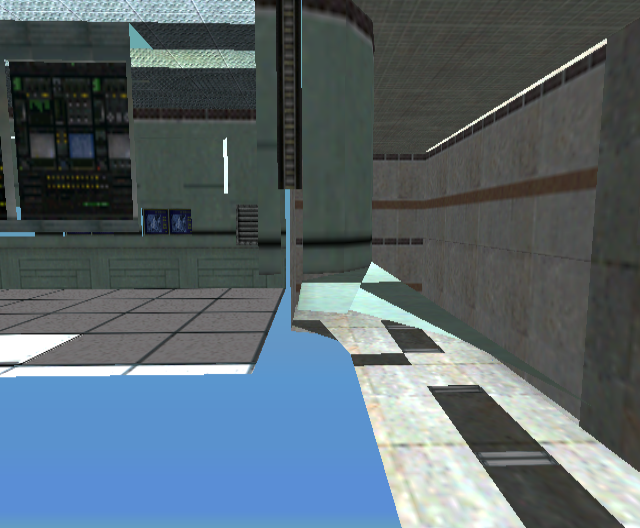
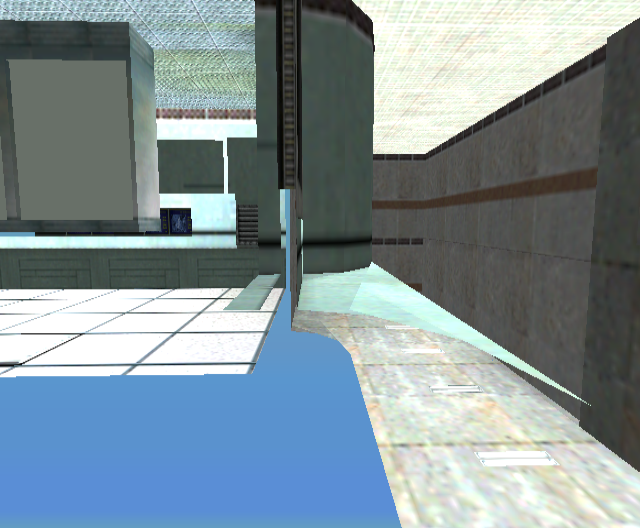
feat: update DumpFrames screenshots and enhance CapFaces management for G363
Added new binary screenshot files for G363 DumpFrames, improving visual documentation for denser changelevel scenarios. Enhanced CapFaces management to reduce floor/void seams and optimize live emit handling. Updated related documentation to reflect these changes, ensuring comprehensive tracking of visual fidelity improvements. This update aims to support ongoing enhancements in gameplay continuity and visual quality.

diff --git a/engine/platform/gamecube/vid_gamecube.c b/engine/platform/gamecube/vid_gamecube.c
@@ -1705,7 +1705,14 @@ static int GC_LiveViewScore( const gc_live_cand_t *c )
 	if( is_wall )
 		score += ( c->area >> 1 );
 	else if( fabs( c->plane.normal[2] ) > 0.7f )
-		score += ( c->area >> 2 ); /* floors still get a little */
+	{
+		/* G363: denser changelevel floors were ranked into live[192..] dead
+		 * zone (void seams). Match wall half-boost under live/cap overlap. */
+		if( GC_WantLiveCapOverlap() )
+			score += ( c->area >> 1 );
+		else
+			score += ( c->area >> 2 ); /* floors still get a little */
+	}
 	/* Prefer real EDGE/TEX geometry over eye-centered plane quads. */
 	if( c->bake_src == GC_CAP_BAKE_EDGE )
 		score += 80000;
@@ -3138,10 +3145,16 @@ static void GC_CaptureLiveFacesFromSurfbits( model_t *wmodel, const byte *surfbi
 		if( area <= 0 )
 			continue;
 		/* G361: denser changelevel dests may steal near-eye LM-caps into lean
-		 * live (EDGE/TEX); CapFaces skips those caps on emit. */
-		if( !GC_WantLiveCapOverlap()
-			&& GC_CapFaceAlready( src->firstedge, src->numedges ))
-			continue; /* complementary to LM-cap (PVS leftovers) */
+		 * live (EDGE/TEX); CapFaces skips those caps on emit.
+		 * G363: do not steal floors/ceilings — they ranked into live[192..] and
+		 * became void seams; walls keep the EDGE/TEX steal. */
+		if( GC_CapFaceAlready( src->firstedge, src->numedges ))
+		{
+			if( !GC_WantLiveCapOverlap() )
+				continue; /* complementary to LM-cap (PVS leftovers) */
+			if( src->plane && fabs( src->plane->normal[2] ) > 0.55f )
+				continue; /* denser floors/ceilings stay LM-cap owned */
+		}
 		if( GC_LiveFaceAlready( src->firstedge, src->numedges ))
 			continue;
 		is_wall = ( fabs( src->plane->normal[2] ) < 0.55f ); /* G234: match LiveViewScore */
@@ -4507,6 +4520,7 @@ static void GC_MaybeRestreamRideMapFaces( const float *eye )
 	static int nlog;
 	float dx, dy, dz;
 	int cluster, slot, i;
+	int portal_neigh = -1;
 	model_t *wm;
 	const byte *bits;
 	vec3_t ahead;
@@ -4532,10 +4546,13 @@ static void GC_MaybeRestreamRideMapFaces( const float *eye )
 	if( !wm )
 		return;
 
-	/* Walk look-ahead along −X until cluster changes (c0a0 cl 117 is large). */
+	/* Walk look-ahead until cluster changes.
+	 * Tram: −X (c0a0 cl 117 is large). G364 denser dest: dump forward —
+	 * G281 −X ranked the wrong room and left a vis-portal seam. */
 	VectorCopy( eye, ahead );
 	cluster = GC_SelectClusterForOrigin( eye );
 	{
+		const qboolean denser_portal = GC_WantLiveCapOverlap();
 		const float looks[4] = { 384.0f, 768.0f, 1152.0f, 1536.0f };
 		int base = cluster;
 
@@ -4543,12 +4560,26 @@ static void GC_MaybeRestreamRideMapFaces( const float *eye )
 		{
 			int c;
 
-			ahead[0] = eye[0] - looks[i];
-			ahead[1] = eye[1];
-			ahead[2] = eye[2];
+			if( denser_portal && !VectorIsNull( gc_newgame_capture_forward ))
+			{
+				const float *f = gc_newgame_capture_forward;
+				const float d = looks[i] * 0.5f; /* 192/384/576/768 — room scale */
+
+				ahead[0] = eye[0] + f[0] * d;
+				ahead[1] = eye[1] + f[1] * d;
+				ahead[2] = eye[2] + f[2] * d;
+			}
+			else
+			{
+				ahead[0] = eye[0] - looks[i];
+				ahead[1] = eye[1];
+				ahead[2] = eye[2];
+			}
 			c = GC_SelectClusterForOrigin( ahead );
 			if( c >= 0 && ( base < 0 || c != base ))
 			{
+				if( denser_portal )
+					portal_neigh = c;
 				cluster = c;
 				break;
 			}
@@ -4602,11 +4633,43 @@ static void GC_MaybeRestreamRideMapFaces( const float *eye )
 	if( slot < 0 )
 		return;
 
-	/* Rank faces toward look-ahead (tunnel reading), not cabin origin. */
-	VectorCopy( ahead, gc_newgame_capture_origin );
-	gc_newgame_capture_forward[0] = -1.0f;
-	gc_newgame_capture_forward[1] = 0.0f;
-	gc_newgame_capture_forward[2] = 0.0f;
+	/* G364: denser vis-portal — OR neighbor-cluster surfbits into the active
+	 * row so CapFaces cover both sides of a lab|hallway seam. */
+	if( portal_neigh >= 0 && portal_neigh != cluster
+		&& gc_newgame_surf_cache && gc_newgame_surfbytes > 0
+		&& gc_newgame_surfbytes <= 1024 && gc_newgame_visbytes > 0
+		&& gc_newgame_visbytes <= 512 )
+	{
+		byte vis[512], tbuf[1024];
+		int li, b;
+		byte *row = gc_newgame_surf_cache
+			+ (size_t)slot * (size_t)gc_newgame_surfbytes;
+
+		for( li = 1; li < wm->numleafs; li++ )
+		{
+			if( wm->leafs[li].cluster != portal_neigh || !wm->leafs[li].compressed_vis )
+				continue;
+			GC_DecompressPVS( vis, wm->leafs[li].compressed_vis,
+				(size_t)gc_newgame_visbytes );
+			GC_BuildSurfbitsForVisRow( wm, vis, tbuf );
+			for( b = 0; b < gc_newgame_surfbytes; b++ )
+				row[b] |= tbuf[b];
+			GC_BuildRefreshCandsFromSurfbits( wm, row, slot );
+			break;
+		}
+	}
+
+	/* Rank faces toward look-ahead (tunnel reading), not cabin origin.
+	 * G364 denser: keep dump-eye origin/forward — tram −X smashed wall-aim. */
+	if( GC_WantLiveCapOverlap() )
+		VectorCopy( eye, gc_newgame_capture_origin );
+	else
+	{
+		VectorCopy( ahead, gc_newgame_capture_origin );
+		gc_newgame_capture_forward[0] = -1.0f;
+		gc_newgame_capture_forward[1] = 0.0f;
+		gc_newgame_capture_forward[2] = 0.0f;
+	}
 	if( cluster != gc_newgame_viewcluster
 		&& GC_LookupSurfbitsCacheSlot( cluster ) >= 0 )
 		(void)GC_SetActiveNewGameCluster( cluster, false );
@@ -4615,15 +4678,16 @@ static void GC_MaybeRestreamRideMapFaces( const float *eye )
 	 * Host_Frame under MEM1 during present. */
 	gc_refresh_loaded_slot = -1;
 	GC_RefreshCapFacesFromCands( slot );
-	bits = GC_LookupSurfbitsCache( gc_newgame_viewcluster );
-	if( !bits )
-		bits = GC_LookupSurfbitsCache( cluster );
+	bits = gc_newgame_surf_cache
+		+ (size_t)slot * (size_t)gc_newgame_surfbytes;
 	if( bits )
 	{
 		/* G283: MarkLeaves stamps ride-cluster surfbits onto live msurface_t. */
 		gc_newgame_surfbits = bits;
-		/* Lean only when surfaces are unpinned (dangling scratch without retain). */
-		if( !Mod_GCWorldSurfacesPinned( wm ))
+		/* Lean only when surfaces are unpinned (dangling scratch without retain).
+		 * G364: denser scratch-retain still appends portal-OR leftovers. */
+		if( !Mod_GCWorldSurfacesPinned( wm )
+			|| ( GC_WantLiveCapOverlap() && Mod_GCWorldSurfacesScratchRetained( wm )))
 			GC_CaptureLiveFacesFromSurfbits( wm, bits, true );
 	}
 
@@ -4640,6 +4704,9 @@ static void GC_MaybeRestreamRideMapFaces( const float *eye )
 			Mod_GCWorldSurfacesScratchRetained( wm ) ? " pin" :
 			( Mod_GCWorldSurfacesPinned( wm ) ? " mpin" : "" ),
 			forced ? " force" : "" );
+		if( portal_neigh >= 0 )
+			Con_Reportf( "Xash3D GameCube: G364 denser portal OR cl=%d neigh=%d n=%d L=%d\n",
+				cluster, portal_neigh, gc_newgame_cap_face_count, gc_live_face_count );
 		nlog++;
 		/* Arm DumpFrames EFB hold after restream so late ride frames encode. */
 		if( nlog == 2 || nlog == 5 )
@@ -10339,7 +10406,8 @@ qboolean GC_RenderNewGameWorldPassNoFrame( qboolean draw_viewmodel )
 	/* G279: locked tram stream follows the parented ride eye (not the fixed
 	 * trainstop dump pose). G233 pinned DumpEyeAtTramStart and left the
 	 * camera stranded as *12 rolled away — exterior tram-in-tunnel shots. */
-	if( gc_g212_stream_locked && Sys_CheckParm( "-gcnewgame" ))
+	if( gc_g212_stream_locked && Sys_CheckParm( "-gcnewgame" )
+		&& !GC_WantLiveCapOverlap() )
 	{
 		(void)GC_NewGameRideEye( center, rvp.viewangles );
 		GC_MaybeRestreamRideMapFaces( center );
@@ -10454,8 +10522,10 @@ qboolean GC_RenderNewGameWorldFrames( int count )
 			}
 		}
 	}
-	/* G279: follow parented ride eye under stream lock (was fixed DumpEye). */
-	if( gc_g212_stream_locked && Sys_CheckParm( "-gcnewgame" ))
+	/* G279: follow parented ride eye under stream lock (was fixed DumpEye).
+	 * G364: denser dest skips tram −X restream; dump wall-aim restreams after. */
+	if( gc_g212_stream_locked && Sys_CheckParm( "-gcnewgame" )
+		&& !GC_WantLiveCapOverlap() )
 	{
 		(void)GC_NewGameRideEye( center, rvp.viewangles );
 		GC_MaybeRestreamRideMapFaces( center );
@@ -10558,6 +10628,13 @@ qboolean GC_RenderNewGameWorldFrames( int count )
 				GC_FlushPendingCapFaceRefresh();
 				GC_MergeRefreshCandsIntoLiveFaces();
 				gc_g212_stream_locked = true;
+			}
+			/* G364: restream LM-cap/live toward dump eye + portal neighbor.
+			 * Early G281 −X restream is skipped on denser dests. */
+			if( GC_WantLiveCapOverlap() )
+			{
+				GC_ForceLeanRideRestream();
+				GC_MaybeRestreamRideMapFaces( center );
 			}
 		}
 		else

diff --git a/.ai/tasks/gc-port-current.md b/.ai/tasks/gc-port-current.md
@@ -8,52 +8,28 @@ Match retail visuals without cutting fill/spawn.
 **DONE (2026-08-10/11)**:
 - Campaign `CHANGELEVEL_READY` through Nihilanth (`c4a3→c5a1`)
 - **G341–G355**: tram/AM vis + denser `c1a0d` tip-safe hop
-- **G356**: campaign dual-hop harness `c0a0e→c1a0→c1a0d`
-  - Disc `changelevel2` / `-gcchangelevel2` argv
-  - Deferred hop2 until after `MAP_READY` (nested G95 Prepare hung)
-  - Probe: G68 `c0a0e→c1a0` then `c1a0→c1a0d`; CHANGELEVEL_READY
-  - Evidence: `.ai/logs/dolphin-probe-g356-dual-c1a0d`
-- **G357**: dual-hop CapFaces on final denser dest
-  - Block denser G335 reverse-hop when already on probe changelevel dest
-    (`GC_IsProbeChangelevelDest` → mark `gc_g335_cl_queued`)
-  - Bounded Flipper CapFaces sample after G335 on denser dests
-  - Probe: CHANGELEVEL_READY; no `c1a0d→c1a0` reverse; `G357 CapFaces sample ok
-    map=c1a0d live=75`
-  - Evidence: `.ai/logs/dolphin-probe-g357-dual-c1a0d`
-- **G358**: report CapFaces `drawn=` on dual-hop denser dest
-  - `GC_NoteCapFacesDrawn` / `GC_LastCapFacesDrawn` (framecount>3 suppresses begin/end)
-  - Probe: `G358 CapFaces sample ok map=c1a0d live=75 drawn=280`, CHANGELEVEL_READY
-  - Evidence: `.ai/logs/dolphin-probe-g358-dual-c1a0d`
-- **G359**: restore textured DumpFrames stills (tram source)
-  - Soft latch on non-denser source only; skip denser AM + probe changelevel dests
-  - DumpFrames host: `DisableCopyToVRAM=True`; default video **OpenGL** when dumping
-    (Null TGAs all-black)
-  - Probe: NEWGAME_READY `c0a0e`; G191 soft dump; stills `framedump_31–33` uniq≈218
-  - Evidence: `.ai/logs/dolphin-probe-g359-dumpframes-c0a0e`
-- **G360**: denser dest DumpFrames stills (`c1a0a→c1a0d`)
-  - Flipper EFB path: `DisableCopyToVRAM=False` on changelevel dumps; OpenGL
-  - Post-CapFaces `G360 Flipper EFB dump presents` (hold + re-present)
-  - Probe: CHANGELEVEL_READY; CapFaces `drawn=241/242`; late stills were HUD/grey
-    (not CapFaces world — fixed in G362)
-  - Evidence: `.ai/logs/dolphin-probe-g360-c1a0d-dumpframes`
-- **G361**: raise CapFaces lean live on denser changelevel dests
-  - `GC_WantLiveCapOverlap`: lean live may steal near-eye LM-caps (EDGE/TEX);
-    CapFaces skips those caps on emit; room-scale denser OR probes
-  - Probe `c1a0a→c1a0d`: Capture live **75→248**; CapFaces sample `drawn=214`;
-    Flipper lean `drawn=128` (was 47); CHANGELEVEL_READY; ents=113
+- **G356–G358**: dual-hop harness + CapFaces sample/`drawn=` on denser dest
+- **G359–G360**: DumpFrames tram soft latch + denser Flipper EFB path
+- **G361**: denser live steal LM-caps → Capture live **75→248**
   - Evidence: `.ai/logs/dolphin-probe-g361-c1a0d-live`
 - **G362**: denser DumpFrames show CapFaces world (not HUD/sky)
-  - Always CapFaces-render before dump Present (no soft RGB565 overwrite)
-  - Skip soft present while EFB dump-hold armed
-  - G196 wall-aim on denser dest despite G212 lock (no tram-start eye)
-  - Probe: CHANGELEVEL_READY; CapFaces `live=248 drawn=250`; late stills
-    uniq≈53k (lab+hallway); samples `.ai/screenshots/g362-dumpframes/`
+  - Wall-aim despite G212; always CapFaces before dump Present
+  - Probe: CapFaces `drawn=250`; late stills uniq≈53k
   - Evidence: `.ai/logs/dolphin-probe-g362-c1a0d-dumpframes`
+- **G363**: denser CapFaces floor/void seam reduction
+  - `GC_CapFaceIsLive` / `LiveFaceEmitsGeom` only claim live emit window (192)
+  - Fill reserve = actual `fill_n` (was starving ~48 LM slots)
+  - Denser floors/ceilings stay LM-cap owned (no live overflow dead zone)
+  - Floor LiveViewScore half-boost under overlap
+  - Probe: CapFaces `drawn=280` (full budget); fill **0→11**; center
+    floorish **0.8%→12.3%**; uniq_center **15k→25k**; CHANGELEVEL_READY
+  - Evidence: `.ai/logs/dolphin-probe-g363-c1a0d-seams`
+  - Stills: `.ai/screenshots/g363-dumpframes/`
 
 **NEXT**:
 - Optional: CapFaces begin/end once-per-map (not only drawn stash)
 - Optional: dual-hop DumpFrames (I/O-heavy; tip-safe single hop proven)
-- Optional: close denser CapFaces floor/void seams (fill/vis)
+- Optional: remaining denser vertical portal/vis seam (center slice)
 
 Rules:
 - Force-relink after HLSDK archive changes.

diff --git a/docs/GAMECUBE_PORT_PLAN.md b/docs/GAMECUBE_PORT_PLAN.md
@@ -4638,6 +4638,10 @@ manual hardware validation with all artifacts generated and documented.
   skip soft overwrite during EFB hold, G196 wall-aim despite G212 on denser dest.
   CapFaces `drawn=250`, late stills uniq≈53k (lab+hallway).
   (`.ai/logs/dolphin-probe-g362-c1a0d-dumpframes`).
+- **G363**: denser floor/void seams — CapFaceIsLive only claims emit window
+  (192); fill reserve=`fill_n`; denser floors stay LM-owned; CapFaces
+  `drawn=280`, fill 0→11, center floorish 0.8%→12.3%.
+  (`.ai/logs/dolphin-probe-g363-c1a0d-seams`).
 - Next: optional CapFaces begin/end once-per-map; dual-hop DumpFrames;
-  denser CapFaces floor/void seam fill.
+  remaining denser portal/vis seam.
 
